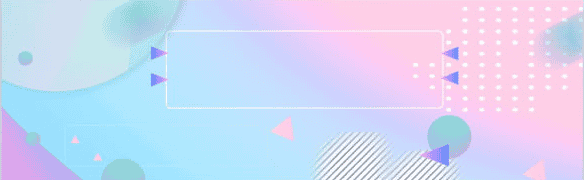
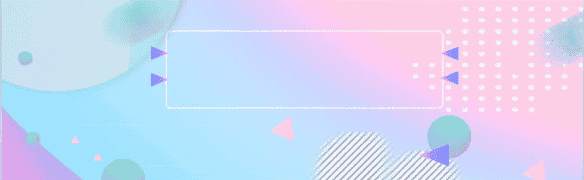
图片压缩

diff --git a/src/pages/goods/index.vue b/src/pages/goods/index.vue
@@ -12,7 +12,7 @@ import type { SpecificationPanelInstance } from '@/types/components'
 import type { CartItem } from '@/types/global'
 
 const instance = getCurrentInstance()
-const specificationPanel = ref<SpecificationPanelInstance>()
+const specificationRef = ref<SpecificationPanelInstance>()
 const useCarts = useCartsStore()
 // 获取屏幕边界到安全区域距离
 const { safeAreaInsets } = uni.getSystemInfoSync()
@@ -219,8 +219,9 @@ const clickHandle = (content: UniHelper.UniGoodsNavOnClickEvent) => {
 const buttonHandle = (content: UniHelper.UniGoodsNavOnButtonClickEvent) => {
   // 加入购物车
   if (content.index === 0) {
-    const numObj = specificationPanel.value?.getCurrentNum()
-    const specObj = specificationPanel.value?.getCurrentSpec()
+    const numObj = specificationRef.value?.getCurrentNum()
+    const specObj = specificationRef.value?.getCurrentSpec()
+
     if (!specObj?.id) {
       // 未选规格前打开规格弹窗
       openPopup('specification')
@@ -367,14 +368,14 @@ const buttonHandle = (content: UniHelper.UniGoodsNavOnButtonClickEvent) => {
     <!-- uni-ui 弹出层 https://uniapp.dcloud.net.cn/component/uniui/uni-popup.html-->
     <uni-popup ref="popup" type="bottom" background-color="#fff">
       <SpecificationPanel
-        id="SpecificationPanel"
-        ref="specificationPanel"
-        v-if="popupName === 'specification'"
+        id="specificationId"
+        v-show="popupName === 'specification'"
+        ref="specificationRef"
         @close="closePopup"
         @changeSpec="changeSpec"
       />
       <AddressPanel
-        v-if="popupName === 'address'"
+        v-show="popupName === 'address'"
         ref="addressPanel"
         @close="closePopup"
         @changeAddress="changeAddress"
